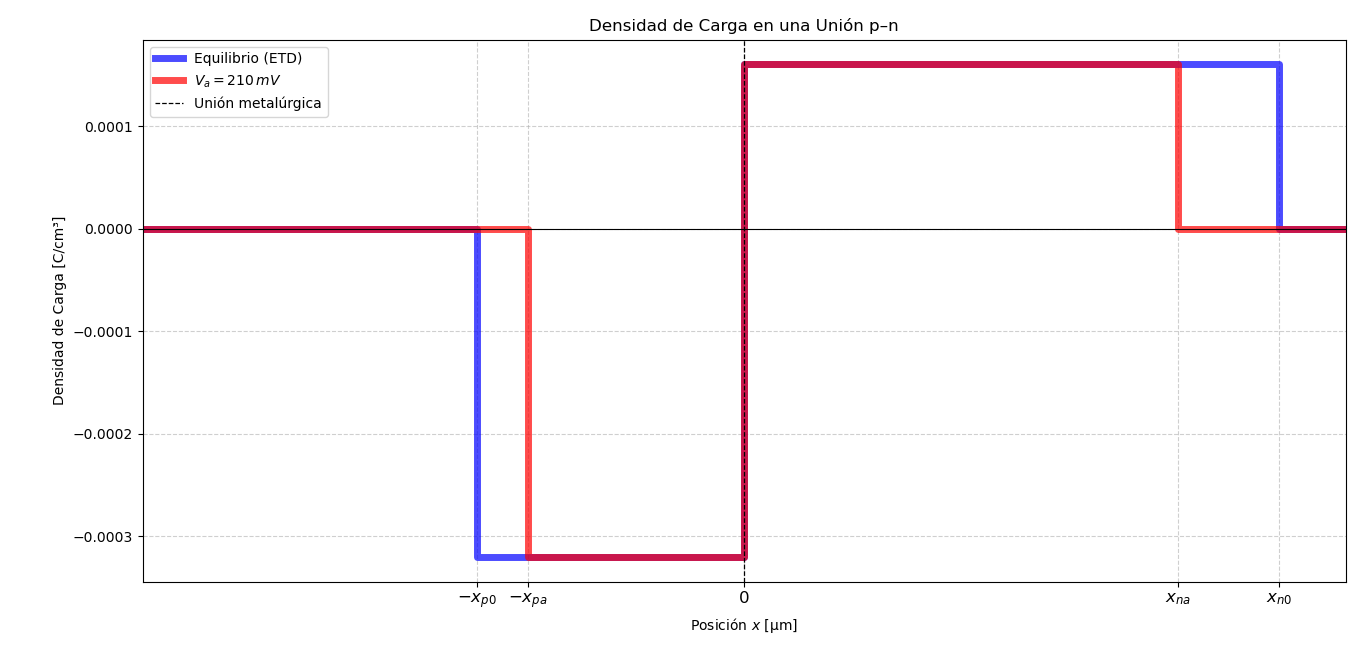
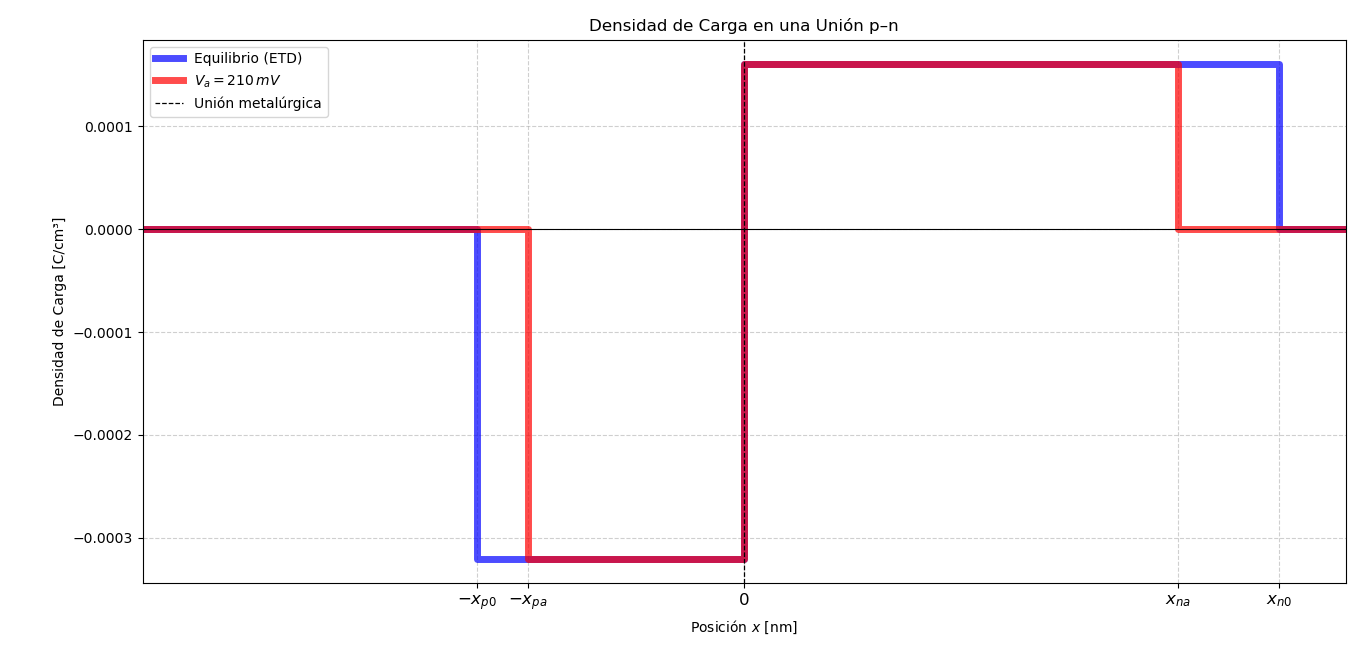
Punto9_ok

diff --git a/punto4.py b/punto4.py
@@ -41,7 +41,7 @@ def densidad_de_carga(Na, Nd, phi_bi, Va):
     plt.xticks(marcas_x, etiquetas_x, fontsize=12)
 
     ax.set_xlim(-x_um, x_um)  # mismo límite que campo eléctrico
-    ax.set_xlabel('Posición $x$ [μm]')
+    ax.set_xlabel('Posición $x$ [nm]')
     ax.set_ylabel('Densidad de Carga [C/cm³]')
     ax.set_title('Densidad de Carga en una Unión p–n')
     ax.grid(True, linestyle='--', alpha=0.6)
@@ -76,7 +76,7 @@ def campo_electrico(Na, Nd, phi_bi, Va, x_lim_max):
     plt.axvline(0, color='k', linestyle='--', linewidth=0.9, label='Unión metalúrgica')
 
     plt.xlim(-x_lim_max * 1e4, x_lim_max * 1e4)
-    plt.xlabel('Posición $x$ [μm]')
+    plt.xlabel('Posición $x$ [nm]')
     plt.ylabel('Campo eléctrico $\mathcal{E}(x)$ [kV/cm]')
     plt.title('Campo eléctrico en una unión p–n')
     plt.grid(True, linestyle='--', alpha=1)
@@ -119,15 +119,19 @@ def potencial_electrico(ni,Na,Nd,phi_bi,T, Va, x_lim_max ):
     
     polarizacion_label = f"Potencial con polarización $V_a = {Va*1000:.0f}$ mV | ($\phi_0 + V_a$)"
 
+    phi_con_va =  (phi_o + Va)
+
+
+
     plt.figure(figsize=(10, 6))
     plt.plot(x*1e4, phi_o*1e3, linewidth = 5 ,alpha = 0.8 ,label= "Potencial de Equilibrio ($\phi_0$)")  # eje x en µm
-    plt.plot(x*1e4, (phi_o + Va)*1e3,color = "red", linewidth = 5 ,alpha = 0.8, label=polarizacion_label)  # eje x en µm
-    plt.xlabel("x [µm]")
+    plt.plot(x*1e4,phi_con_va*1e3,color = "red", linewidth = 5 ,alpha = 0.8, label=polarizacion_label)  # eje x en µm
+    plt.xlabel("x [nm]")
     plt.ylabel("Potencial φ(x) [mV]")
 
     plt.legend(loc='upper left', frameon=True, fancybox=True, shadow=True, borderpad=1) # 'frameon=True' para el recuadro, 'shadow' para una sombra, 'borderpad' para el espacio interno
 
-    plt.title('Potencial eléctrico [mV] en función de la distancia [µm]')
+    plt.title('Potencial eléctrico [mV] en función de la distancia [nm]')
     plt.grid(True)
     plt.show()
 

diff --git a/punto8.py b/punto8.py
@@ -1,3 +1,7 @@
+from punto7 import punto7
+from punto5 import obtener_porcentajes_Jn_Jp 
+from punto1 import movilidades_y_difusion
+
 import matplotlib.pyplot as plt
 import numpy as np
 from scipy.integrate import cumtrapz
@@ -8,8 +12,33 @@ e_o = 88.5e-15 # C/(V cm)
 e_s = 11.9*e_o
 
 
-def punto8():
+def punto8(ni,Na,Nd,Wp,Wn,Va,T,imprimir_enunciado):
 
-    print("\nPunto 8 :\nDeterminar la corriente de arrastre de mayoritarios usando los valores de las corrientes netas de electrones y huecos calculadas en el ı́tem 5.\n")
+    if(imprimir_enunciado):
+        print("\nPunto 8 :\nDeterminar la corriente de arrastre de mayoritarios usando los valores de las corrientes netas de electrones y huecos calculadas en el ı́tem 5.\n")
 
-    return
+     
+    coeficientes = movilidades_y_difusion(Na,Nd,T)
+
+    D_nN  = coeficientes['D_nN']
+    D_pN  = coeficientes['D_pN']
+    D_nP  = coeficientes['D_nP']  # ¡Asegúrate de que esta clave exista en tu dict!
+    D_pP  = coeficientes['D_pP']
+
+
+    #Corrientes de difusion de mayoritarios
+    J_nN, J_pP = punto7(ni,Na,Nd,Wp,Wn,Va,T,False)
+
+    #Corrientes J_n , J_p totales , aproximadamente la de los minoritarios de difusion
+    J_nP,J_pN = obtener_porcentajes_Jn_Jp(ni,Na,Nd,Wp,Wn,coeficientes,Va,T)
+
+
+    J_nN_arr = J_nP - J_nN
+
+    J_pP_arr = J_pN - J_pP
+
+    
+
+    print(f"Corrientes de Arrastre Mayoritarios: J_nN = {J_nN_arr*1e6:.3f}  u A/cm^2  J_pP = {J_pP_arr*1e6:.3f} u A/cm^2 ")
+
+    return J_nN_arr, J_pP_arr

diff --git a/punto7.py b/punto7.py
@@ -13,9 +13,10 @@ e_o = 88.5e-15 # C/(V cm)
 e_s = 11.9*e_o
 
 
-def punto7(ni,Na,Nd,Wp,Wn,Va,T):
+def punto7(ni,Na,Nd,Wp,Wn,Va,T,imprimir_enunciado):
 
-    print("\nPunto 7: \nCalcular la corriente de difusión de mayoritarios de cada lado de la juntura, suponiendo válida la hipótesis de cuasi-neutralidad en las regiones cuasi-neutrales (QNRs), ¿En qué sentido se difunden los portadores mayoritarios? ¿Es consistente con la corriente calculada en el ı́tem 5?\n\n")
+    if(imprimir_enunciado):
+        print("\nPunto 7: \nCalcular la corriente de difusión de mayoritarios de cada lado de la juntura, suponiendo válida la hipótesis de cuasi-neutralidad en las regiones cuasi-neutrales (QNRs), ¿En qué sentido se difunden los portadores mayoritarios? ¿Es consistente con la corriente calculada en el ı́tem 5?\n\n")
    
     coeficientes = movilidades_y_difusion(Na,Nd,T)
 
@@ -34,5 +35,5 @@ def punto7(ni,Na,Nd,Wp,Wn,Va,T):
 
     print(f"Corrientes de Difusión Mayoritarios: J_nN = {J_nN*1e6:.3f}  u A/cm^2  J_pP = {J_pP*1e6:.3f} u A/cm^2 ")
    
-    return 
+    return J_nN , J_pP
 

diff --git a/punto9.py b/punto9.py
@@ -2,14 +2,40 @@ import matplotlib.pyplot as plt
 import numpy as np
 from scipy.integrate import cumtrapz
 
+
+from punto8 import punto8
+from punto1 import movilidades_y_difusion
+
+
 k = 1.380649e-23   # J/K
 q = 1.602176634e-19 # C
 e_o = 88.5e-15 # C/(V cm)
 e_s = 11.9*e_o
 
 
-def punto9():
+def punto9(ni,Na,Nd,Wp,Wn,Va,T):
 
     print("\nPunto 9 :A partir de la corriente de arrastre de mayoritarios calculada en el ı́tem anterior y suponiendo que se puede considerar la distribución de mayoritarios homogénea en las QNRs, ¿cuál debe ser la intensidad del E en cada QNR que da lugar a esas corrientes? ¿Cómo se comparan con Emáx ? ¿Es correcto suponer que las QNRs son cuasi neutrales?")
 
+
+      
+    coeficientes = movilidades_y_difusion(Na,Nd,T)
+
+    mu_nN  = coeficientes['mu_nN']
+    mu_pP  = coeficientes['mu_pP']
+
+
+
+    J_nN_arr, J_pP_arr = punto8(ni,Na,Nd,Wp,Wn,Va,T, False )
+
+
+    E_N = (J_nN_arr)/(q*Nd*mu_nN)
+
+    E_P = (J_pP_arr)/(q*Na*mu_pP)
+
+    print(f"Campos en QNR: E_N = {E_N*1e6:.3f}  u V/cm   E_P = {E_P*1e6:.3f} u V/cm ")
+
+
     return
+
+

diff --git a/TP2.py b/TP2.py
@@ -26,23 +26,23 @@ ni = 1e10 #cm-3
 e_o = 88.5e-15 # C/(V cm)
 e_s = 11.9*e_o
 
-punto1(ni,Na,Nd,T , tao_n ,tao_po ,Va, Wn, Wp)
+# punto1(ni,Na,Nd,T , tao_n ,tao_po ,Va, Wn, Wp)
 
-punto2(Na,Nd,ni,T ,e_s)
+# punto2(Na,Nd,ni,T ,e_s)
 
-punto3(Na,Nd,ni,T,e_s,Va )
+# punto3(Na,Nd,ni,T,e_s,Va )
 
-punto4(Na,Nd,ni,T,Va)
+# punto4(Na,Nd,ni,T,Va)
 
-punto5(Na,Nd,ni,T ,Wp,Wn,Va)
+# punto5(Na,Nd,ni,T ,Wp,Wn,Va)
 
-punto6(Na,Nd,ni,T ,Wp,Wn,Va)
+# punto6(Na,Nd,ni,T ,Wp,Wn,Va)
 
-punto7(ni,Na,Nd,Wp,Wn,Va,T)
+# punto7(ni,Na,Nd,Wp,Wn,Va,T,True)
    
-punto8()
+punto8(ni,Na,Nd,Wp,Wn,Va,T,True)
 
-punto9()
+punto9(ni,Na,Nd,Wp,Wn,Va,T)
 
 punto10()  
 
